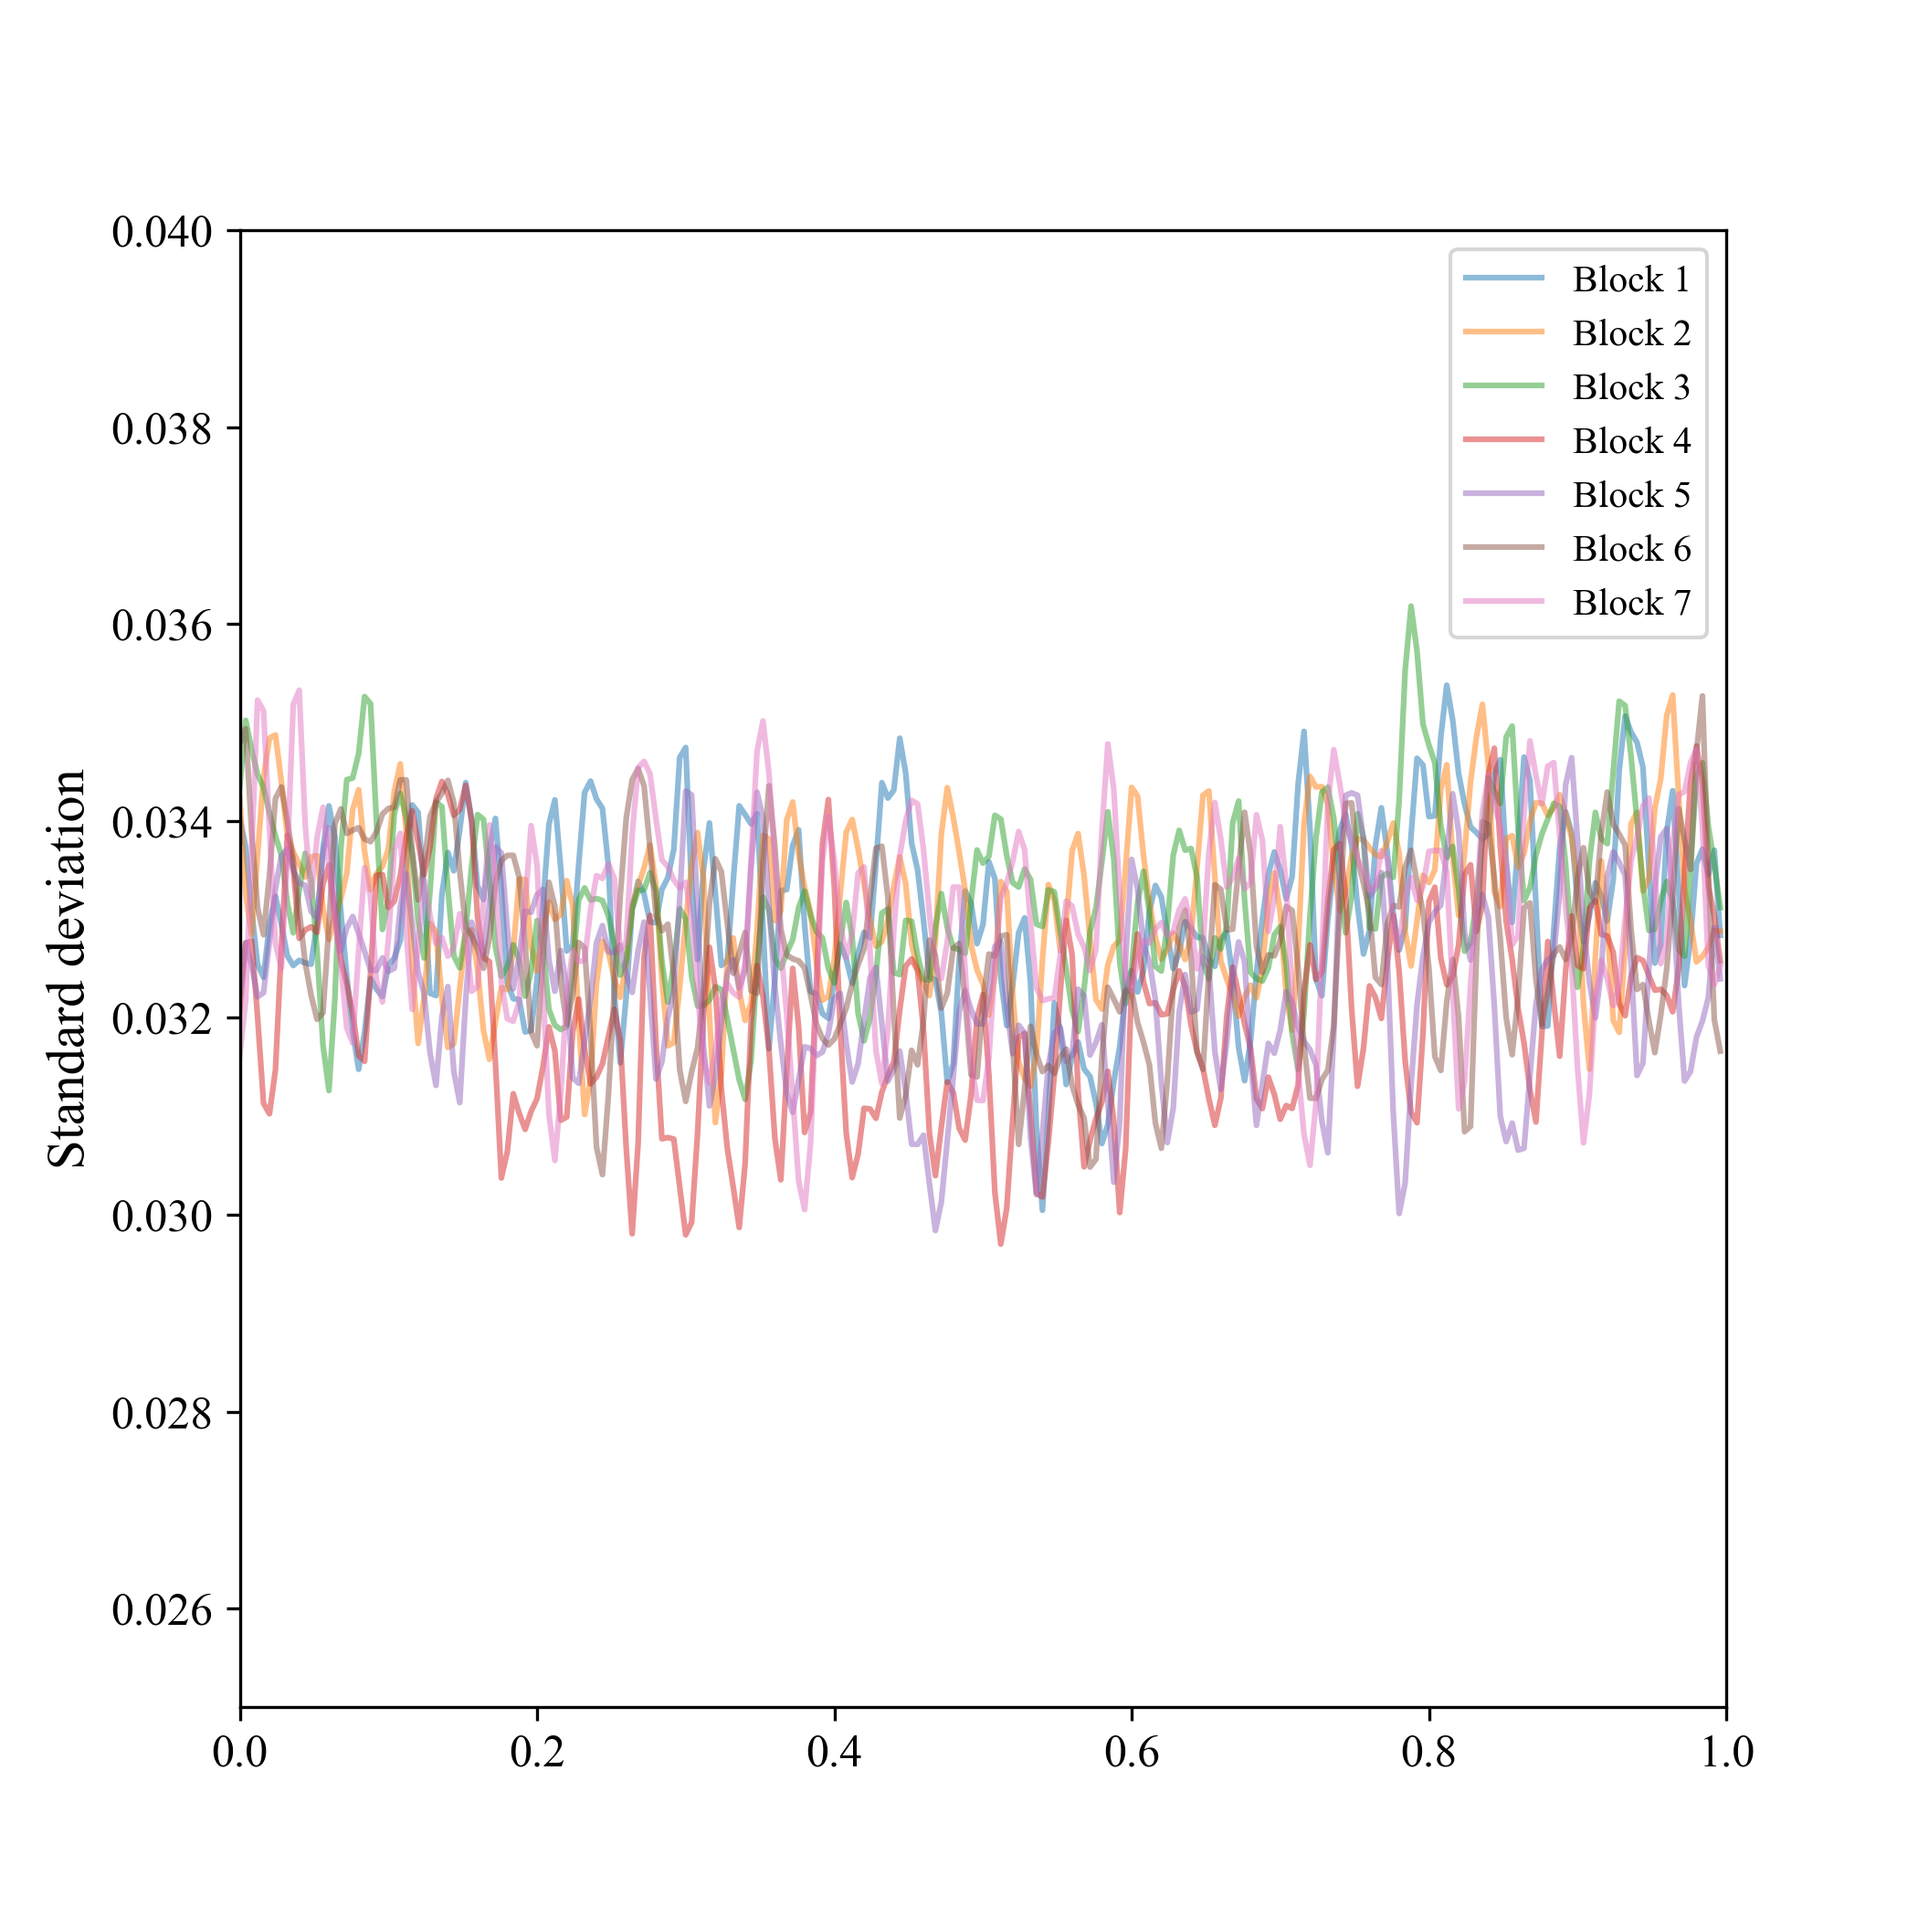
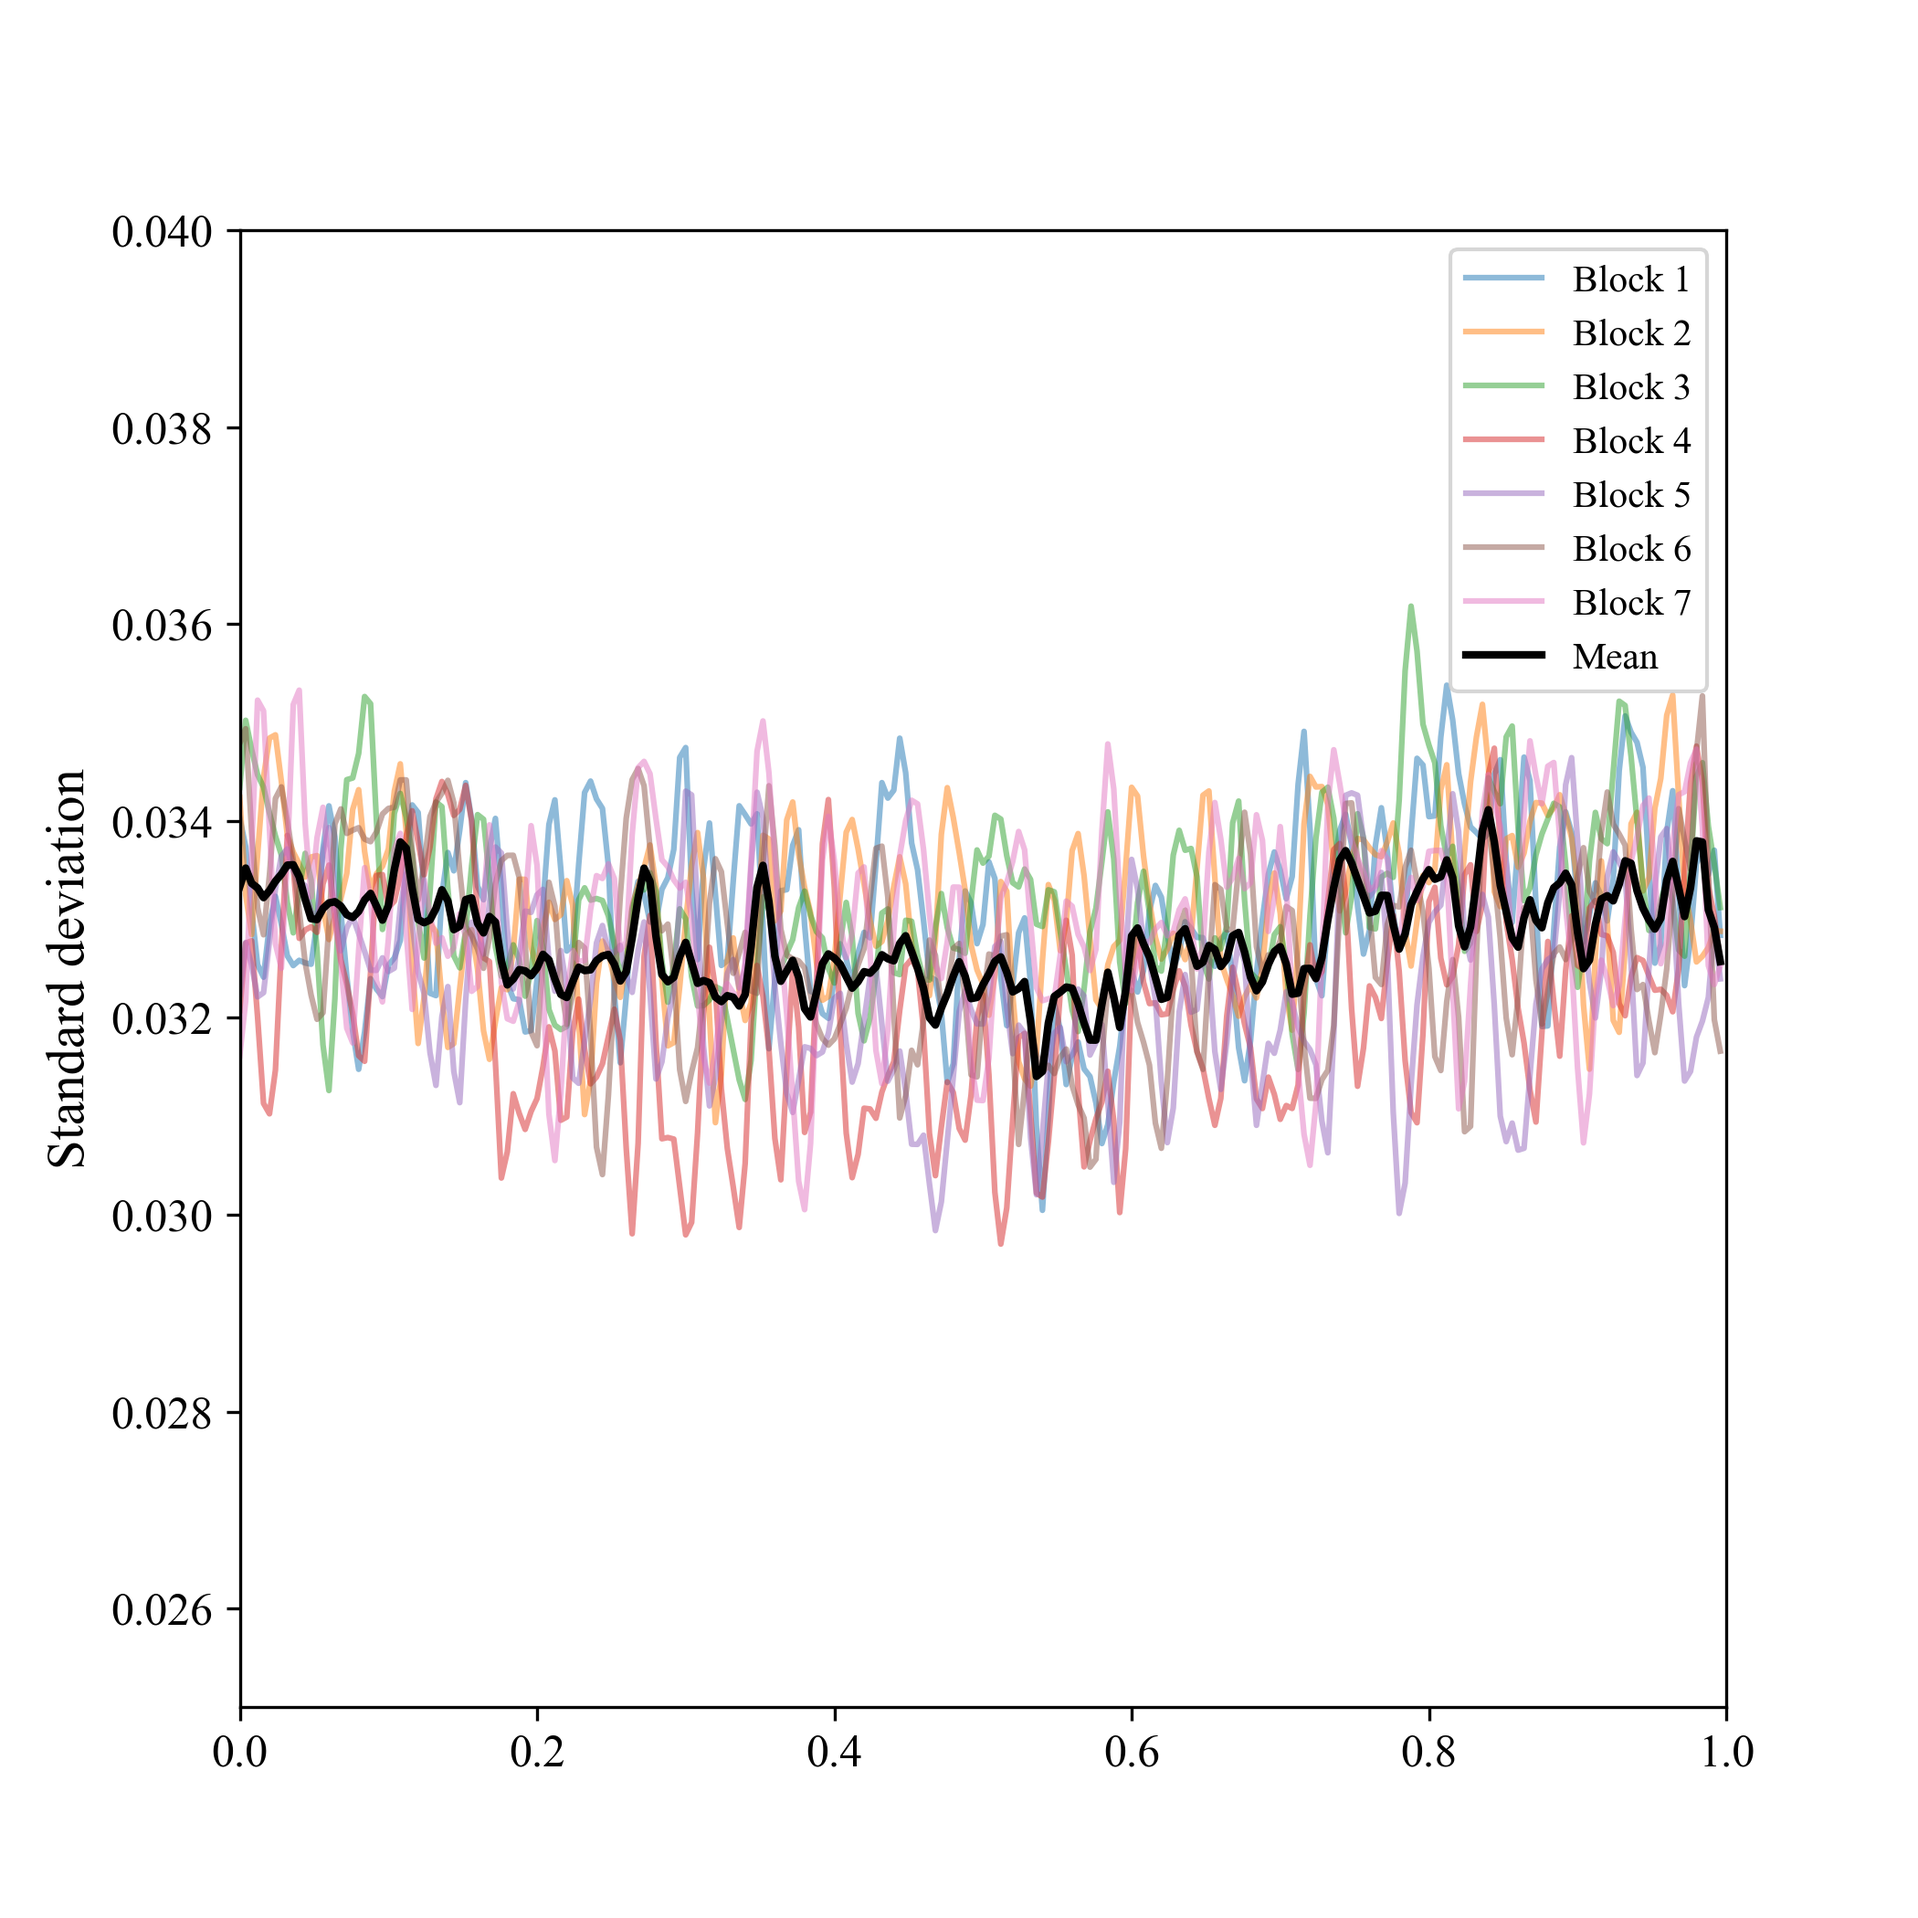
add mean to std plot

Changed region(s): [[0.1548, 0.4333, 0.8976, 0.5571], [0.7429, 0.3095, 0.8667, 0.3714], [0.1238, 0.4333, 0.1548, 0.4643]]

diff --git a/ERF_analysis/erf.py b/ERF_analysis/erf.py
@@ -109,7 +109,7 @@ def plot_var_bins_within_sesh(Xsesh, ysesh, figsize, savepath, title = ''):
     plt.savefig(savepath)
 
 
-def plot_std(X, savepath = None, blocks = False, ymin = 0, ymax = 0.5):
+def plot_std(X, savepath = None, blocks = False, ymin = 0, ymax = 0.5, mean = False):
     std = get_std(X)
 
     fig, axs = plt.subplots(1,1, figsize=(7,7), dpi = 300, sharey=True)
@@ -120,6 +120,10 @@ def plot_std(X, savepath = None, blocks = False, ymin = 0, ymax = 0.5):
         else:
             label = f'Session {i+1}'
         axs.plot(std[i], label=label, alpha=0.5)
+    
+    if mean:
+        mean_std = np.mean(std, axis=0)
+        axs.plot(mean_std, label='Mean', color='black', linewidth=2)
 
     axs.legend(loc = 'upper right')
 
@@ -143,8 +147,8 @@ if __name__ == '__main__':
     ysesh = [np.concatenate(i, axis = 0) for i in ysesh]
 
     plot_var_bins_within_sesh(Xsesh, ysesh, figsize=(10,7), savepath = f'plots/sesh_erp_animate_vs_inanimate.png')
-    plot_std(Xbin, savepath = f'plots/std_block_source.png', blocks=True, ymin = 0.025, ymax = 0.04)
-    plot_std(Xsesh, savepath = f'plots/std_sesh_source.png', ymin = 0.025, ymax = 0.04)
+    plot_std(Xbin, savepath = f'plots/std_block_source.png', blocks=True, ymin = 0.025, ymax = 0.04, mean = True)
+    plot_std(Xsesh, savepath = f'plots/std_sesh_source.png', ymin = 0.025, ymax = 0.04, mean = True)
 
     # Sensor space
     Xbin, ybin, Xsesh, ysesh = prep_data(sens = True)
